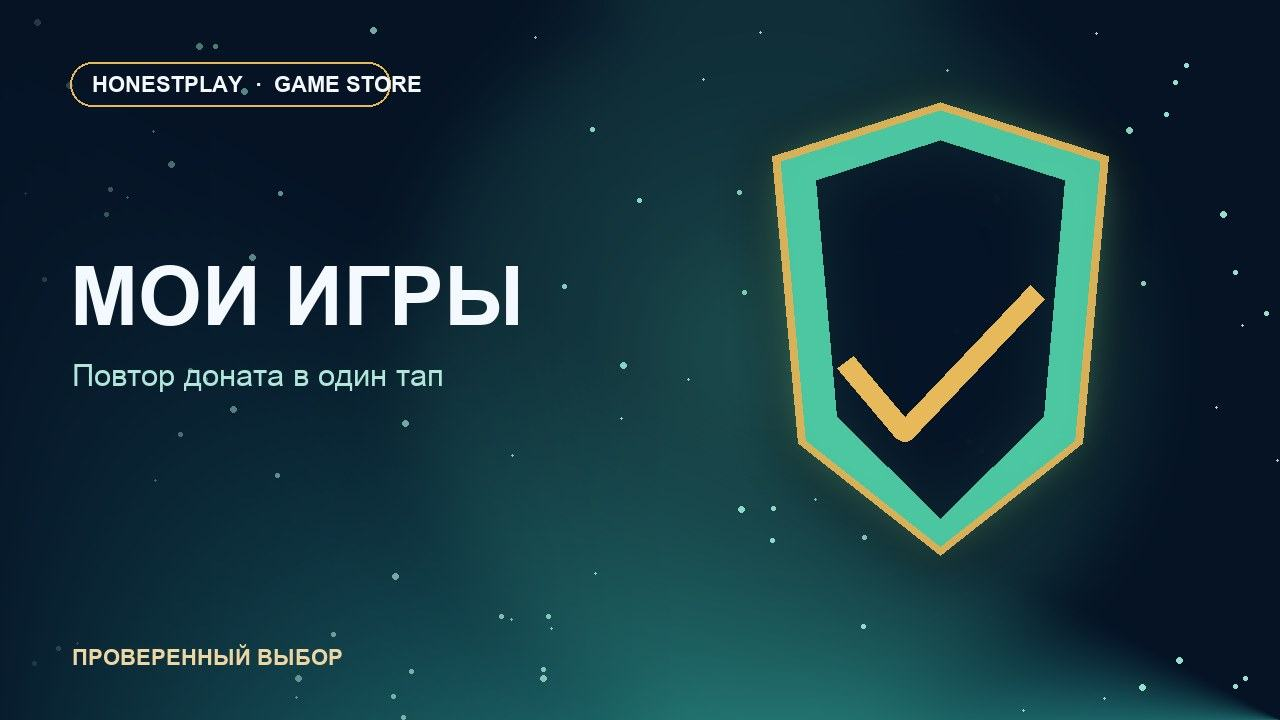
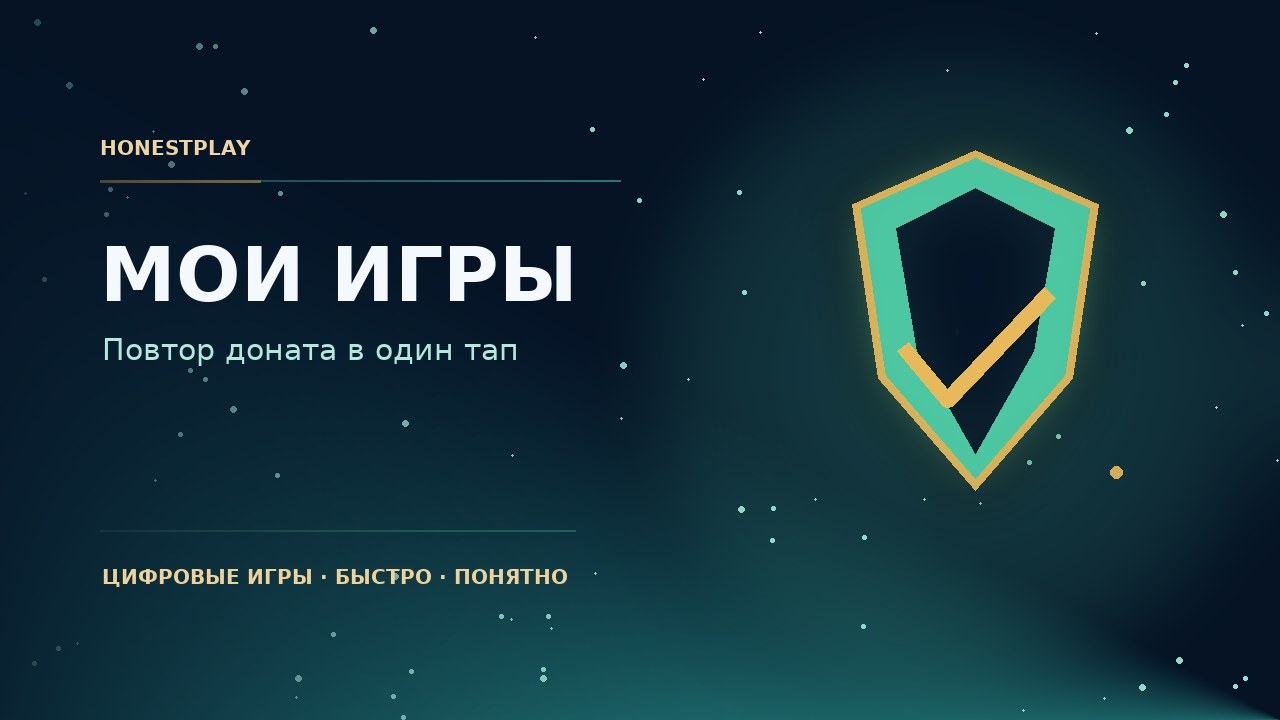
fix

diff --git a/scripts/make_banners.py b/scripts/make_banners.py
@@ -32,9 +32,17 @@ SECTIONS: dict[str, tuple[str, str, tuple[int, int, int]]] = {
     "docs": ("ДОКУМЕНТЫ", "Прозрачные условия сервиса", (140, 191, 204)),
 }
 
-FONT_DIR = Path("/System/Library/Fonts/Supplemental")
-TITLE_FONT = FONT_DIR / "Arial Bold.ttf"
-TEXT_FONT = FONT_DIR / "Arial.ttf"
+def system_font(bold: bool) -> Path:
+    # Use macOS Arial locally and DejaVu on Linux/CI.
+    candidates = (
+        [Path("/System/Library/Fonts/Supplemental") / ("Arial Bold.ttf" if bold else "Arial.ttf"),
+         Path("/usr/share/fonts/truetype/dejavu") / ("DejaVuSans-Bold.ttf" if bold else "DejaVuSans.ttf")]
+    )
+    return next((path for path in candidates if path.exists()), candidates[0])
+
+
+TITLE_FONT = system_font(bold=True)
+TEXT_FONT = system_font(bold=False)
 
 
 def mix(a, b, t: float):
@@ -95,28 +103,39 @@ def background(color: tuple[int, int, int], seed: int) -> Image.Image:
 
 def render(title: str, subtitle: str, color: tuple[int, int, int], number: int) -> Image.Image:
     image = background(color, number).convert("RGBA")
+    # Telegram can place a round chat/avatar control over the upper-left part of
+    # a photo. Keep this 220×170 area deliberately free of text or logos.
     lights = Image.new("RGBA", SIZE)
     light_draw = ImageDraw.Draw(lights)
-    for radius, alpha in ((390, 38), (250, 50), (120, 75)):
-        light_draw.ellipse((770 - radius, 355 - radius, 770 + radius, 355 + radius), fill=(*color, alpha))
+    for radius, alpha in ((330, 34), (210, 46), (100, 65)):
+        light_draw.ellipse((955 - radius, 370 - radius, 955 + radius, 370 + radius), fill=(*color, alpha))
     image = Image.alpha_composite(image, lights.filter(ImageFilter.GaussianBlur(45)))
-    emblem = shield_layer(SIZE, color, (760, 102, 1120, 555))
+    emblem = shield_layer(SIZE, color, (840, 150, 1110, 490))
     image = Image.alpha_composite(image, emblem.filter(ImageFilter.GaussianBlur(28)))
     image = Image.alpha_composite(image, emblem)
-    add_check(image, (845, 292, 1037, 432))
+    add_check(image, (902, 292, 1050, 400))
+
+    # Thin interface accents give the composition a deliberate, game-like grid
+    # without competing with the heading or the shield.
+    accents = Image.new("RGBA", SIZE)
+    accent_draw = ImageDraw.Draw(accents)
+    accent_draw.line([(100, 180), (620, 180)], fill=(*color, 145), width=2)
+    accent_draw.line([(100, 181), (260, 181)], fill=(*GOLD, 220), width=3)
+    accent_draw.line([(100, 530), (575, 530)], fill=(*color, 80), width=2)
+    accent_draw.ellipse((1110, 466, 1122, 478), fill=(*GOLD, 230))
+    image = Image.alpha_composite(image, accents)
     veil = Image.new("L", SIZE)
     veil_draw = ImageDraw.Draw(veil)
-    for x in range(SIZE[0]):
-        veil_draw.line([(x, 0), (x, SIZE[1])], fill=round(225 * max(0, 1 - x / 700) ** 1.6))
+    for x in range(760):
+        veil_draw.line([(x, 0), (x, SIZE[1])], fill=round(205 * max(0, 1 - x / 760) ** 1.6))
     image = Image.composite(Image.new("RGBA", SIZE, (*NAVY, 255)), image, veil)
     draw = ImageDraw.Draw(image)
-    tag_font = ImageFont.truetype(str(TITLE_FONT), 22)
-    draw.rounded_rectangle((70, 62, 390, 106), radius=22, outline=(*GOLD, 220), width=2)
-    draw.text((92, 72), "HONESTPLAY  ·  GAME STORE", font=tag_font, fill=WHITE)
-    title_font = fitted_font(TITLE_FONT, title, 610, 82)
-    draw.text((70, 250), title, font=title_font, fill=WHITE)
-    draw.text((72, 250 + title_font.size + 25), subtitle, font=fitted_font(TEXT_FONT, subtitle, 580, 31), fill=mix(color, WHITE, .6))
-    draw.text((72, 645), "ПРОВЕРЕННЫЙ ВЫБОР", font=tag_font, fill=mix(GOLD, WHITE, .45))
+    label_font = ImageFont.truetype(str(TITLE_FONT), 20)
+    draw.text((100, 136), "HONESTPLAY", font=label_font, fill=mix(GOLD, WHITE, .45))
+    title_font = fitted_font(TITLE_FONT, title, 650, 76)
+    draw.text((100, 230), title, font=title_font, fill=WHITE)
+    draw.text((102, 230 + title_font.size + 26), subtitle, font=fitted_font(TEXT_FONT, subtitle, 610, 30), fill=mix(color, WHITE, .62))
+    draw.text((102, 565), "ЦИФРОВЫЕ ИГРЫ · БЫСТРО · ПОНЯТНО", font=label_font, fill=mix(GOLD, WHITE, .40))
     return image.convert("RGB")
 
 

diff --git a/services/legal.py b/services/legal.py
@@ -25,7 +25,9 @@ def _contact(settings: Settings) -> str:
 def _seller(settings: Settings) -> str:
     if settings.legal_seller_details.strip():
         return escape(settings.legal_seller_details)
-    return "не указан; до включения оплаты заполните LEGAL_SELLER_DETAILS"
+    # Environment-variable names are implementation details and must never
+    # appear in customer-facing legal text.
+    return "будет указан до подключения приёма оплаты"
 
 
 def _payment_status(settings: Settings) -> str:

diff --git a/tests/test_legal.py b/tests/test_legal.py
@@ -1,0 +1,8 @@
+from config import Settings
+from services.legal import payment_and_refunds
+
+
+def test_unconfigured_seller_does_not_expose_environment_variable_name() -> None:
+    text = payment_and_refunds(Settings(legal_seller_details=""))
+    assert "LEGAL_SELLER_DETAILS" not in text
+    assert "будет указан до подключения приёма оплаты" in text
